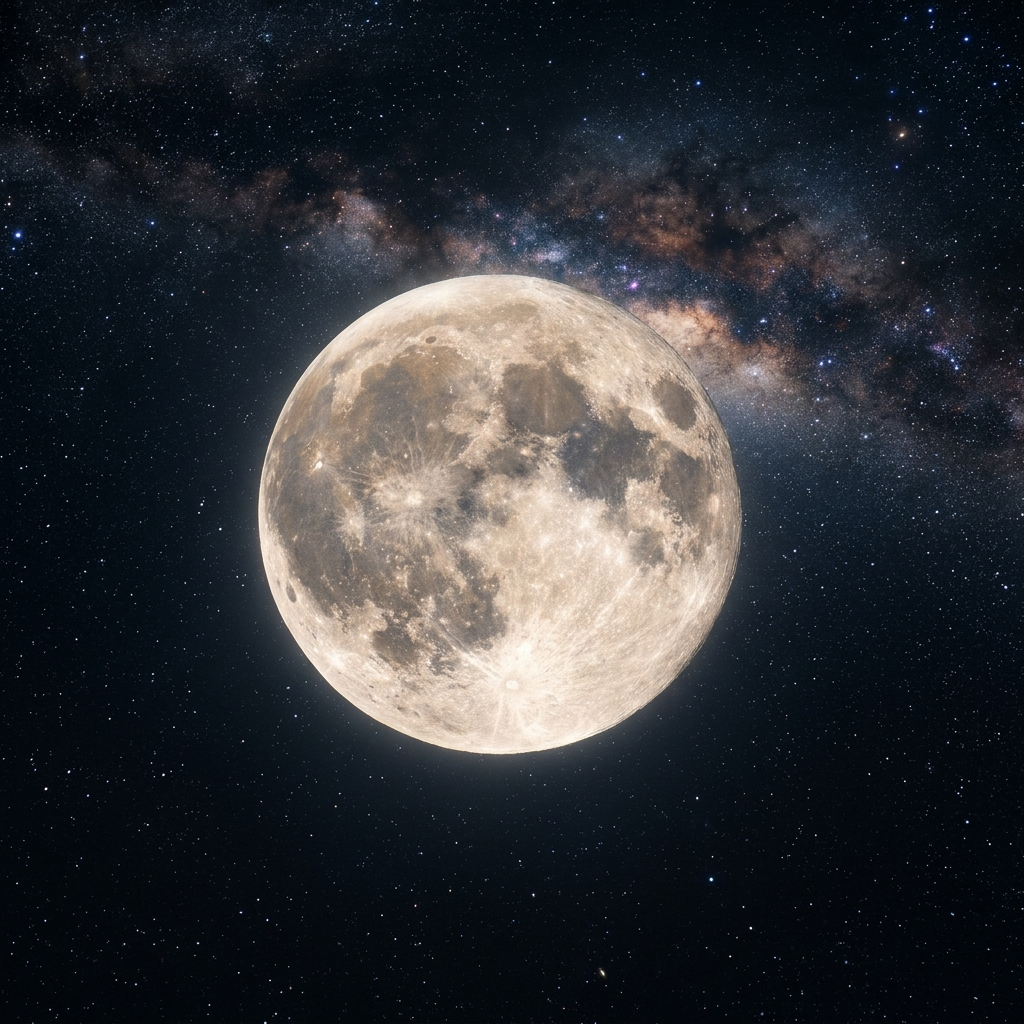
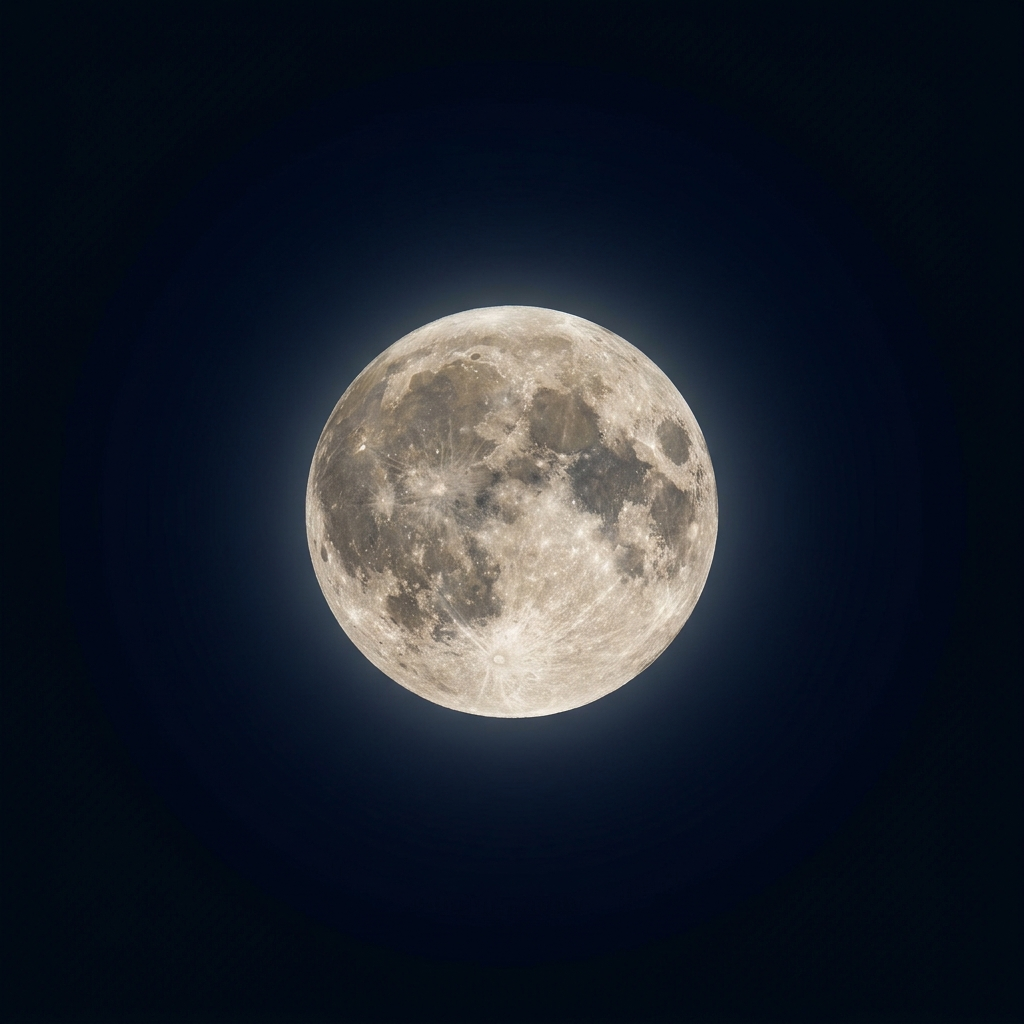
feat: initialize Android project assets and configuration with required build resources and media files

diff --git a/src/pages/tools/PrayerCircles.tsx b/src/pages/tools/PrayerCircles.tsx
@@ -12,10 +12,12 @@ import {
   Sparkles,
   Shield,
   Zap,
-  HandHelping
+  HandHelping,
+  Trash2
 } from 'lucide-react';
 import { toast } from 'sonner';
 import { toArabicNumber } from '@/data/quranData';
+import { deleteDoc } from 'firebase/firestore';
 
 interface Circle {
   id: string;
@@ -76,6 +78,24 @@ const PrayerCircles: React.FC = () => {
     }
   };
 
+  const deleteCircle = async (id: string, e: React.MouseEvent) => {
+    e.stopPropagation();
+    if (!auth.currentUser) return;
+    
+    if (!window.confirm(isArabic ? 'هل أنت متأكد من حذف هذه الحلقة؟' : 'Are you sure you want to delete this circle?')) return;
+
+    try {
+      await deleteDoc(doc(db, 'prayer_circles', id));
+      toast.success(isArabic ? 'تم حذف الحلقة' : 'Circle deleted');
+    } catch (e) {
+      toast.error(isArabic ? 'فشل حذف الحلقة' : 'Failed to delete circle');
+    }
+  };
+
+  const requestDua = () => {
+    toast.info(isArabic ? 'سيتم إطلاق ميزة طلب الدعاء قريباً!' : 'Request Dua feature coming soon!');
+  };
+
   return (
     <div className="min-h-screen bg-background pb-32">
       <QuranHeader 
@@ -105,7 +125,10 @@ const PrayerCircles: React.FC = () => {
             </div>
           </button>
 
-          <button className="p-8 rounded-[2.5rem] bg-gold text-white shadow-xl hover:scale-[1.02] active:scale-[0.98] transition-all relative overflow-hidden group text-right">
+          <button 
+            onClick={requestDua}
+            className="p-8 rounded-[2.5rem] bg-gold text-white shadow-xl hover:scale-[1.02] active:scale-[0.98] transition-all relative overflow-hidden group text-right"
+          >
             <div className="absolute inset-0 pattern-islamic opacity-10 group-hover:opacity-20 transition-opacity" />
             <div className="relative z-10 flex items-center gap-6 flex-row-reverse">
               <div className="w-16 h-16 rounded-3xl bg-white/10 flex items-center justify-center shadow-inner">
@@ -138,9 +161,10 @@ const PrayerCircles: React.FC = () => {
              </div>
            ) : (
              <div className="grid grid-cols-1 gap-4">
-                {circles.map(circle => (
+                 {circles.map(circle => (
                   <div 
                     key={circle.id}
+                    onClick={() => toast.info(isArabic ? 'سيتم تفعيل غرف الدردشة قريباً' : 'Chat rooms coming soon')}
                     className="p-6 rounded-[2rem] bg-card border border-border/40 hover:border-gold/30 transition-all shadow-sm flex items-center justify-between group cursor-pointer"
                   >
                     <div className="flex items-center gap-6">
@@ -155,8 +179,18 @@ const PrayerCircles: React.FC = () => {
                           </p>
                        </div>
                     </div>
-                    <div className="w-10 h-10 rounded-full bg-muted/20 flex items-center justify-center text-muted-foreground group-hover:bg-gold group-hover:text-white transition-all">
-                       <ChevronRight size={18} />
+                    <div className="flex items-center gap-3">
+                      {circle.createdBy === auth.currentUser?.uid && (
+                        <button 
+                          onClick={(e) => deleteCircle(circle.id, e)}
+                          className="w-10 h-10 rounded-full bg-red-500/10 text-red-500 flex items-center justify-center hover:bg-red-500 hover:text-white transition-all opacity-0 group-hover:opacity-100"
+                        >
+                          <Trash2 size={18} />
+                        </button>
+                      )}
+                      <div className="w-10 h-10 rounded-full bg-muted/20 flex items-center justify-center text-muted-foreground group-hover:bg-gold group-hover:text-white transition-all">
+                         <ChevronRight size={18} />
+                      </div>
                     </div>
                   </div>
                 ))}

diff --git a/src/components/GlobalKhatmaBanner.tsx b/src/components/GlobalKhatmaBanner.tsx
@@ -12,8 +12,10 @@ const GlobalKhatmaBanner: React.FC = () => {
   const isArabic = i18n.language === 'ar';
   const [stats, setStats] = useState({ currentJuz: 0, targetJuz: 1000, participants: 0 });
 
+  const currentMonthId = `khatma_${new Date().getFullYear()}_${(new Date().getMonth() + 1).toString().padStart(2, '0')}`;
+
   useEffect(() => {
-    const unsub = onSnapshot(doc(db, 'global_stats', 'khatma'), (snap) => {
+    const unsub = onSnapshot(doc(db, 'global_stats', currentMonthId), (snap) => {
       if (snap.exists()) {
         const data = snap.data();
         setStats({
@@ -21,10 +23,13 @@ const GlobalKhatmaBanner: React.FC = () => {
           targetJuz: data.targetJuz || 1000,
           participants: data.participants || 0
         });
+      } else {
+        // Reset local stats if no data for current month
+        setStats({ currentJuz: 0, targetJuz: 1000, participants: 0 });
       }
     });
     return () => unsub();
-  }, []);
+  }, [currentMonthId]);
 
   const handleRecord = async () => {
     if (!auth.currentUser) {
@@ -42,11 +47,12 @@ const GlobalKhatmaBanner: React.FC = () => {
     }
 
     try {
-      const statsRef = doc(db, 'global_stats', 'khatma');
+      const statsRef = doc(db, 'global_stats', currentMonthId);
       await setDoc(statsRef, {
         currentJuz: increment(juzCount),
         participants: increment(1),
-        targetJuz: 1000 // Default target if not exists
+        targetJuz: 1000,
+        monthName: new Date().toLocaleDateString('en-US', { month: 'long', year: 'numeric' })
       }, { merge: true });
       toast.success(isArabic ? "تم تسجيل قراءتك بنجاح، جزاك الله خيراً" : "Reading recorded successfully, Jazak Allah Khayran");
     } catch (error) {

diff --git a/src/pages/qanet/QanetHome.tsx b/src/pages/qanet/QanetHome.tsx
@@ -19,7 +19,7 @@ import {
 const moonImage = "https://images.unsplash.com/photo-1532693322450-2cb5c511067d?q=80&w=600&auto=format&fit=crop";
 
 export default function QanetHome() {
-  const { logs, language } = useQanet();
+  const { logs, language, setIsLogModalOpen } = useQanet();
   const isArabic = language === 'ar';
   const { profile } = useUser();
   const navigate = useNavigate();
@@ -94,7 +94,10 @@ export default function QanetHome() {
       <div className="flex flex-col items-center text-center relative py-10 overflow-hidden">
         <div className="absolute inset-0 bg-primary/5 blur-[120px] rounded-full scale-150" />
         <div className="relative z-10">
-          <div className="w-40 h-40 rounded-full mb-8 shadow-[0_0_50px_rgba(255,255,255,0.1)] border-[6px] border-primary/10 bg-black relative mx-auto group cursor-pointer active:scale-95 transition-all overflow-hidden">
+          <div 
+            onClick={() => setIsLogModalOpen(true)}
+            className="w-40 h-40 rounded-full mb-8 shadow-[0_0_50px_rgba(255,255,255,0.1)] border-[6px] border-primary/10 bg-black relative mx-auto group cursor-pointer active:scale-95 transition-all overflow-hidden"
+          >
             <img 
               src="/assets/images/qanet_moon.png" 
               alt="Moon" 

diff --git a/src/pages/qanet/QanetDashboard.tsx b/src/pages/qanet/QanetDashboard.tsx
@@ -1,4 +1,4 @@
-import React, { useState } from 'react';
+import React from 'react';
 import { Moon, Calculator, History, Settings, ArrowRight, BookOpen, Home, Activity, Plus } from 'lucide-react';
 import { useNavigate, useLocation, Routes, Route, Navigate, Outlet } from 'react-router-dom';
 import QanetHome from './QanetHome';
@@ -10,11 +10,10 @@ import { useQanet } from './QanetContext';
 import { useDynamicTheme } from '@/hooks/useDynamicTheme';
 
 export default function QanetDashboard() {
-  const { settings, language } = useQanet();
+  const { settings, language, isLogModalOpen, setIsLogModalOpen } = useQanet();
   const isArabic = language === 'ar';
   const navigate = useNavigate();
   const location = useLocation();
-  const [isLogModalOpen, setIsLogModalOpen] = useState(false);
 
   
   // Activate dynamic theme logic if enabled in settings

diff --git a/src/pages/qanet/QanetContext.tsx b/src/pages/qanet/QanetContext.tsx
@@ -26,6 +26,8 @@ interface QanetContextType extends QanetState {
   deleteLog: (id: string) => void;
   resetData: () => void;
   isSyncing: boolean;
+  isLogModalOpen: boolean;
+  setIsLogModalOpen: (isOpen: boolean) => void;
 }
 
 export const QanetContext = createContext<QanetContextType | undefined>(undefined);
@@ -42,6 +44,7 @@ export const QanetProvider: React.FC<{ children: React.ReactNode }> = ({ childre
   });
 
   const [isSyncing, setIsSyncing] = useState(false);
+  const [isLogModalOpen, setIsLogModalOpen] = useState(false);
   const unsubLogsRef = useRef<(() => void) | null>(null);
   const unsubSettingsRef = useRef<(() => void) | null>(null);
   const isFirebaseActive = useRef(false);
